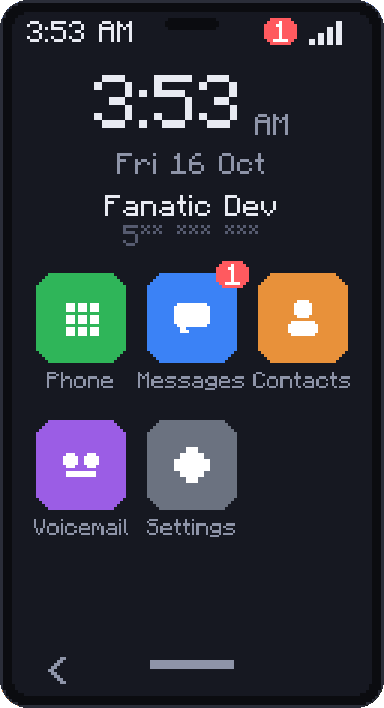
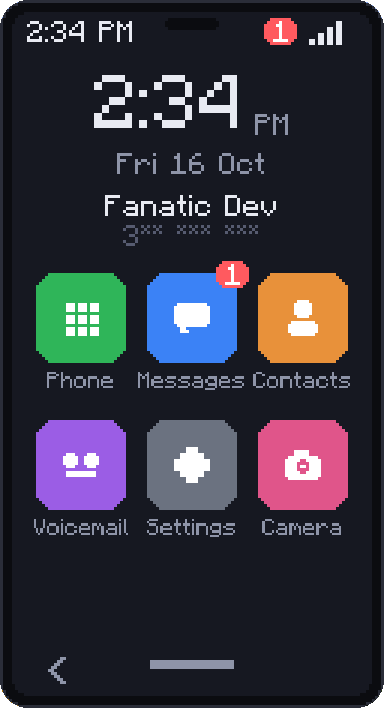
Update MinePhone to 0.4.0 (Fabric 1.21.11, 26.1.x, 26.2, 26.3)

diff --git a/minephone/index.html b/minephone/index.html
@@ -4,12 +4,12 @@
   <meta charset="utf-8">
   <meta name="viewport" content="width=device-width, initial-scale=1">
   <title>MinePhone | FanaticDev Mods</title>
-  <meta name="description" content="A working phone for Minecraft: your own number, real voice calls, voicemail and texts with other players.">
+  <meta name="description" content="A working phone for Minecraft: your own number, real voice calls, texts with emoji, voicemail and a camera for photos and selfies.">
   <meta name="mod-slug" content="minephone">
   <meta name="theme-color" content="#0a0710">
   <meta property="og:type" content="website">
   <meta property="og:title" content="MinePhone | FanaticDev Mods">
-  <meta property="og:description" content="A working phone for Minecraft: your own number, real voice calls, voicemail and texts with other players.">
+  <meta property="og:description" content="A working phone for Minecraft: your own number, real voice calls, texts with emoji, voicemail and a camera for photos and selfies.">
   <meta property="og:image" content="https://mods.fanaticdev.xyz/assets/minephone.png">
   <meta property="og:url" content="https://mods.fanaticdev.xyz/minephone/">
   <link rel="canonical" href="https://mods.fanaticdev.xyz/minephone/">
